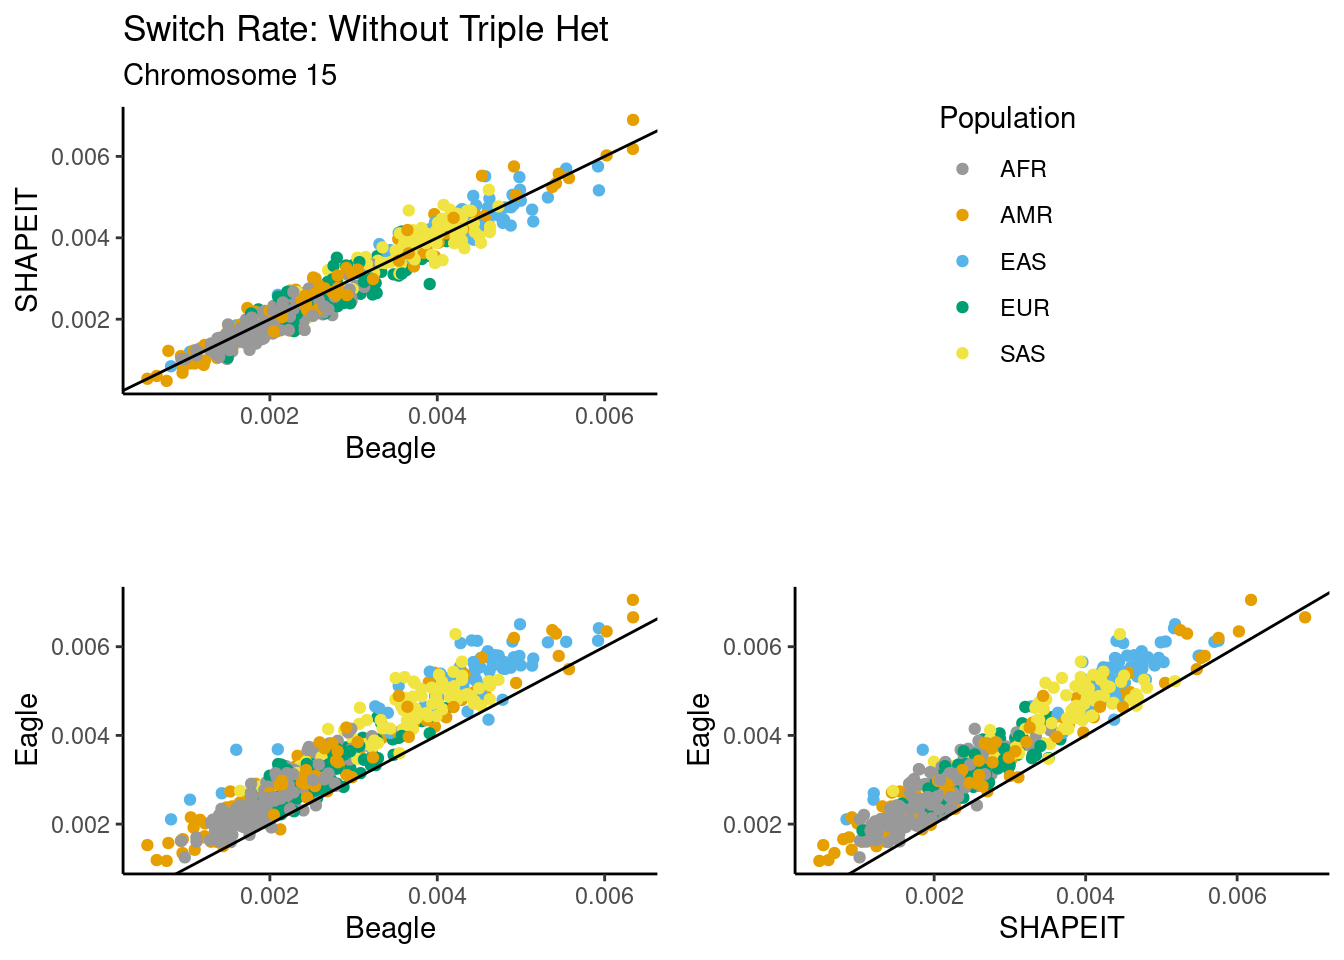
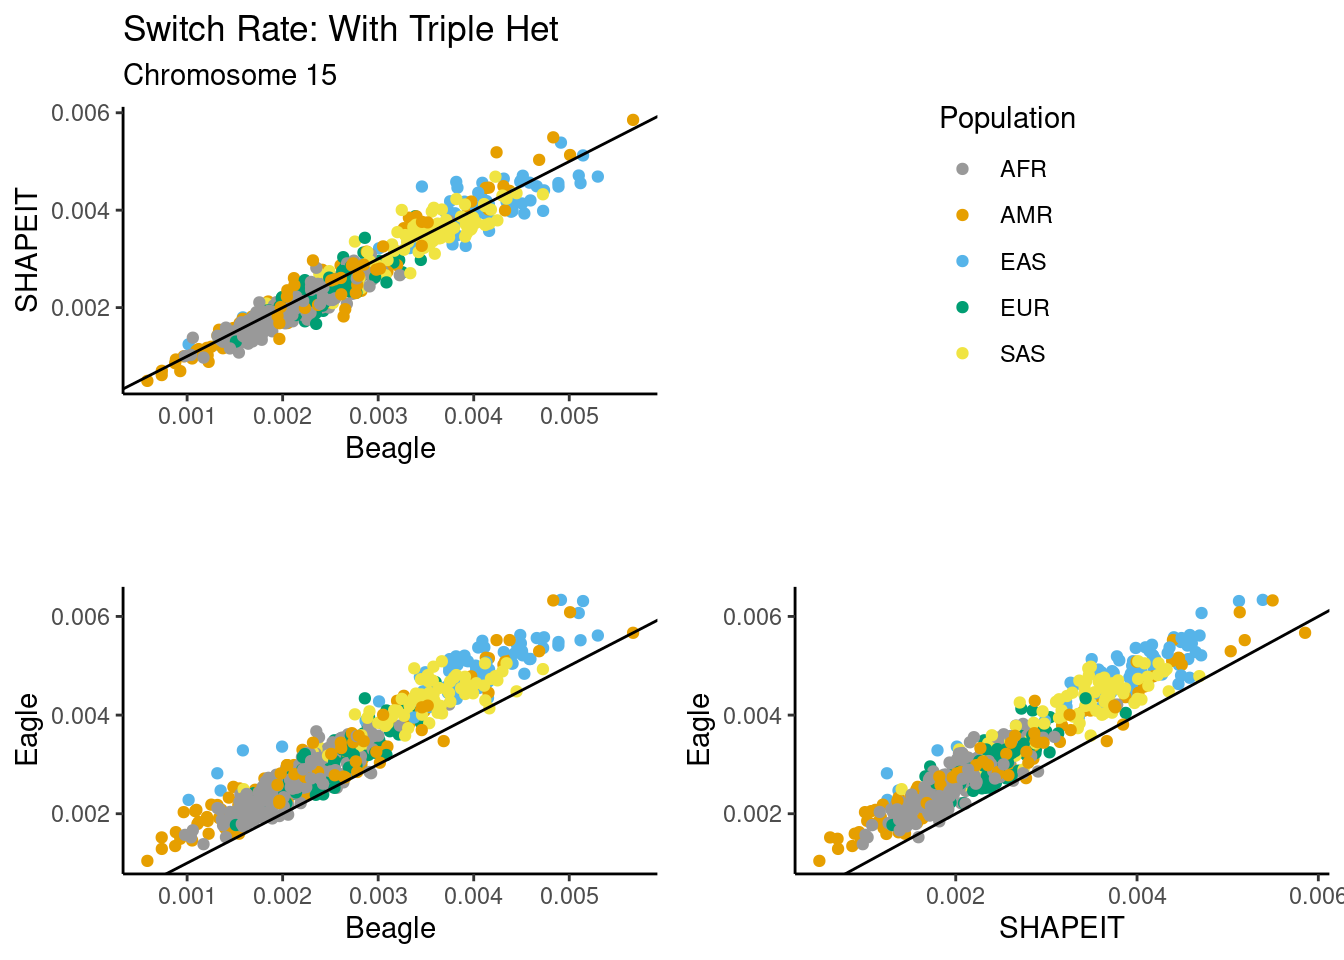
Build site.

diff --git a/docs/trio_no_th.html b/docs/trio_no_th.html
@@ -390,7 +390,7 @@ class="glyphicon glyphicon-ok text-success" aria-hidden="true"></span>
 <div class="tab-content">
 <div id="summary" class="tab-pane fade in active">
 <p>
-<strong>Last updated:</strong> 2024-06-17
+<strong>Last updated:</strong> 2024-06-18
 </p>
 <p>
 <strong>Checks:</strong> <span
@@ -521,15 +521,15 @@ project makes it easier to run your code on other machines.</p>
 <div class="panel panel-default">
 <div class="panel-heading">
 <p class="panel-title">
-<a data-toggle="collapse" data-parent="#workflowr-checks" href="#strongRepositoryversionstrongahrefhttpsgithubcomtheandybphasingcleantree34541293cab7c83b4ea9c50ba19a659988f8b7b1targetblank3454129a">
+<a data-toggle="collapse" data-parent="#workflowr-checks" href="#strongRepositoryversionstrongahrefhttpsgithubcomtheandybphasingcleantreeeb6c61aeceef2817ea338f1c8e31af32bf280e0etargetblankeb6c61aa">
 <span class="glyphicon glyphicon-ok text-success"
 aria-hidden="true"></span> <strong>Repository version:</strong>
-<a href="https://github.com/theandyb/phasing_clean/tree/34541293cab7c83b4ea9c50ba19a659988f8b7b1" target="_blank">3454129</a>
+<a href="https://github.com/theandyb/phasing_clean/tree/eb6c61aeceef2817ea338f1c8e31af32bf280e0e" target="_blank">eb6c61a</a>
 </a>
 </p>
 </div>
 <div
[2 lines of base64/hex data omitted]
 class="panel-collapse collapse">
 <div class="panel-body">
 <p>
@@ -539,7 +539,7 @@ reproducibility.
 </p>
 <p>
 The results in this page were generated with repository version
-<a href="https://github.com/theandyb/phasing_clean/tree/34541293cab7c83b4ea9c50ba19a659988f8b7b1" target="_blank">3454129</a>.
+<a href="https://github.com/theandyb/phasing_clean/tree/eb6c61aeceef2817ea338f1c8e31af32bf280e0e" target="_blank">eb6c61a</a>.
 See the <em>Past versions</em> tab to see a history of the changes made
 to the R Markdown and HTML files.
 </p>
@@ -622,6 +622,10 @@ Ignored files:
     Ignored:    output/trio_phase_8/
     Ignored:    scratch/
 
+Untracked files:
+    Untracked:  analysis/recombination_rate.Rmd
+    Untracked:  code/batch_compare_noTH.sh
+
 Unstaged changes:
     Modified:   README.md
     Modified:   _config.yaml
@@ -631,6 +635,7 @@ Unstaged changes:
     Modified:   code/batch_annotate_trio_switch.sh
     Modified:   code/batch_compare_trio.sh
     Modified:   code/batch_phase_trio_noTH.sh
+    Modified:   code/common_functions.R
     Modified:   code/error_rates_per_bin.R
     Modified:   code/maf_categories_trio.R
     Modified:   code/trio_phase_results.R
@@ -679,6 +684,40 @@ Message
 </tr>
 </thead>
 <tbody>
+<tr>
+<td>
+Rmd
+</td>
+<td>
+<a href="https://github.com/theandyb/phasing_clean/blob/eb6c61aeceef2817ea338f1c8e31af32bf280e0e/analysis/trio_no_th.Rmd" target="_blank">eb6c61a</a>
+</td>
+<td>
+Andy Beck
+</td>
+<td>
+2024-06-18
+</td>
+<td>
+wflow_publish("analysis/trio_no_th.Rmd")
+</td>
+</tr>
+<tr>
+<td>
+html
+</td>
+<td>
+<a href="https://rawcdn.githack.com/theandyb/phasing_clean/01938f726e043eccdea1433aaced1a633caa9ef1/docs/trio_no_th.html" target="_blank">01938f7</a>
+</td>
+<td>
+Andy Beck
+</td>
+<td>
+2024-06-17
+</td>
+<td>
+Build site.
+</td>
+</tr>
 <tr>
 <td>
 Rmd
@@ -1055,11 +1094,25 @@ df_subj_unrel &lt;- df_subj %&gt;%
 <h2>Chromosome 15</h2>
 <pre class="r"><code>df_switch_th &lt;- read_csv(&quot;output/trio_phase_15/switch_errors/summary.csv&quot;, show_col_types = FALSE) # with triple hets
 df_switch &lt;- read_csv(&quot;output/trio_phase_15/no_th/switch_errors/summary.csv&quot;, show_col_types = FALSE) # without th</code></pre>
-<p>As a reminder, here are what the error distribution patterns looked
-like with the triple heterozygous sites included:</p>
-<pre class="r"><code>cross_meth_plot(df_switch_th, &quot;Switch Rate: With Triple Het&quot;, plot_switch_rate, &quot;SUPER&quot;, 15)</code></pre>
-<pre><code>Warning in get_plot_component(plot, &quot;guide-box&quot;): Multiple components found;
-returning the first one. To return all, use `return_all = TRUE`.</code></pre>
+<p>For a sanity check, let’s plot the number of heterozygous positions
+per proband by data set (there should uniformly be more in the dataset
+which includes triple heterozygous positions):</p>
+<pre class="r"><code>df_switch_th %&gt;%
+  rename(n_het_th = n_hets) %&gt;%
+  select(pair_id, SUPER, n_het_th) %&gt;%
+  inner_join({
+    df_switch %&gt;%
+      select(pair_id, n_hets)
+  }, by = &quot;pair_id&quot;) %&gt;%
+  ggplot(aes(x = n_hets, y = n_het_th, colour = SUPER)) +
+  geom_point() +
+  theme_classic() +
+  ggtitle(&quot;Heterozygous Positions&quot;) +
+  xlab(&quot;Without Triple Hets&quot;) +
+  ylab(&quot;With Triple Hets&quot;) +
+  scale_color_manual(values = cbPalette) +
+  labs(colour = &quot;Population&quot;) +
+  geom_abline(slope = 1, intercept = 0)</code></pre>
 <p><img src="figure/trio_no_th.Rmd/unnamed-chunk-4-1.png" width="672" style="display: block; margin: auto;" /></p>
 <p>
 <button type="button" class="btn btn-default btn-xs btn-workflowr btn-workflowr-fig" data-toggle="collapse" data-target="#fig-unnamed-chunk-4-1">
@@ -1098,9 +1151,9 @@ Andy Beck
 </table>
 </div>
 </div>
-<p>For the same cross-method comparison, we observe the following
-figure:</p>
-<pre class="r"><code>cross_meth_plot(df_switch, &quot;Switch Rate: Without Triple Het&quot;, plot_switch_rate, &quot;SUPER&quot;, 15)</code></pre>
+<p>As a reminder, here are what the error distribution patterns looked
+like with the triple heterozygous sites included:</p>
+<pre class="r"><code>cross_meth_plot(df_switch_th, &quot;Switch Rate: With Triple Het&quot;, plot_switch_rate, &quot;SUPER&quot;, 15)</code></pre>
 <pre><code>Warning in get_plot_component(plot, &quot;guide-box&quot;): Multiple components found;
 returning the first one. To return all, use `return_all = TRUE`.</code></pre>
 <p><img src="figure/trio_no_th.Rmd/unnamed-chunk-5-1.png" width="672" style="display: block; margin: auto;" /></p>
@@ -1141,10 +1194,9 @@ Andy Beck
 </table>
 </div>
 </div>
-<p>Visually, we observe the same general ranking of methods with respect
-to the switch rate between the two figures. For flips, we observe the
-following:</p>
-<pre class="r"><code>cross_meth_plot(df_switch_th, &quot;Flip Rate: With Triple Het&quot;, plot_flip_rate, &quot;SUPER&quot;, 15)</code></pre>
+<p>For the same cross-method comparison, we observe the following
+figure:</p>
+<pre class="r"><code>cross_meth_plot(df_switch, &quot;Switch Rate: Without Triple Het&quot;, plot_switch_rate, &quot;SUPER&quot;, 15)</code></pre>
 <pre><code>Warning in get_plot_component(plot, &quot;guide-box&quot;): Multiple components found;
 returning the first one. To return all, use `return_all = TRUE`.</code></pre>
 <p><img src="figure/trio_no_th.Rmd/unnamed-chunk-6-1.png" width="672" style="display: block; margin: auto;" /></p>
@@ -1185,7 +1237,10 @@ Andy Beck
 </table>
 </div>
 </div>
-<pre class="r"><code>cross_meth_plot(df_switch, &quot;Flip Rate: Without Triple Het&quot;, plot_flip_rate, &quot;SUPER&quot;, 15)</code></pre>
+<p>Visually, we observe the same general ranking of methods with respect
+to the switch rate between the two figures. For flips, we observe the
+following:</p>
+<pre class="r"><code>cross_meth_plot(df_switch_th, &quot;Flip Rate: With Triple Het&quot;, plot_flip_rate, &quot;SUPER&quot;, 15)</code></pre>
 <pre><code>Warning in get_plot_component(plot, &quot;guide-box&quot;): Multiple components found;
 returning the first one. To return all, use `return_all = TRUE`.</code></pre>
 <p><img src="figure/trio_no_th.Rmd/unnamed-chunk-7-1.png" width="672" style="display: block; margin: auto;" /></p>
@@ -1226,13 +1281,10 @@ Andy Beck
 </table>
 </div>
 </div>
-<p>Again, we observe the same qualitative ranking of the methods:
-SHAPEIT generally introduces more flips than the other two methods,
-while more most probands we observe more flips in Beagle than in Eagle.
-Now, if we plot the error rates for each method acrss the datasets, we
-observe:</p>
-<pre class="r"><code>cross_df_plots(df_switch, df_switch_th, &quot;other&quot;)</code></pre>
-<p><img src="figure/trio_no_th.Rmd/unnamed-chunk-8-1.png" width="1152" style="display: block; margin: auto;" /></p>
+<pre class="r"><code>cross_meth_plot(df_switch, &quot;Flip Rate: Without Triple Het&quot;, plot_flip_rate, &quot;SUPER&quot;, 15)</code></pre>
+<pre><code>Warning in get_plot_component(plot, &quot;guide-box&quot;): Multiple components found;
+returning the first one. To return all, use `return_all = TRUE`.</code></pre>
+<p><img src="figure/trio_no_th.Rmd/unnamed-chunk-8-1.png" width="672" style="display: block; margin: auto;" /></p>
 <p>
 <button type="button" class="btn btn-default btn-xs btn-workflowr btn-workflowr-fig" data-toggle="collapse" data-target="#fig-unnamed-chunk-8-1">
 Past versions of unnamed-chunk-8-1.png
@@ -1255,6 +1307,17 @@ Date
 </tr>
 </thead>
 <tbody>
+<tr>
+<td>
+<a href="https://github.com/theandyb/phasing_clean/blob/01938f726e043eccdea1433aaced1a633caa9ef1/docs/figure/trio_no_th.Rmd/unnamed-chunk-8-1.png" target="_blank">01938f7</a>
+</td>
+<td>
+Andy Beck
+</td>
+<td>
+2024-06-17
+</td>
+</tr>
 <tr>
 <td>
 <a href="https://github.com/theandyb/phasing_clean/blob/4b6c9ddc379943f4df76e0f4dd3a2e33cb41d4f4/docs/figure/trio_no_th.Rmd/unnamed-chunk-8-1.png" target="_blank">4b6c9dd</a>
@@ -1303,7 +1366,12 @@ Andy Beck
 </table>
 </div>
 </div>
-<pre class="r"><code>cross_df_plots(df_switch, df_switch_th, &quot;flip&quot;)</code></pre>
+<p>Again, we observe the same qualitative ranking of the methods:
+SHAPEIT generally introduces more flips than the other two methods,
+while more most probands we observe more flips in Beagle than in Eagle.
+Now, if we plot the error rates for each method across the data sets, we
+observe:</p>
+<pre class="r"><code>cross_df_plots(df_switch, df_switch_th, &quot;other&quot;)</code></pre>
 <p><img src="figure/trio_no_th.Rmd/unnamed-chunk-9-1.png" width="1152" style="display: block; margin: auto;" /></p>
 <p>
 <button type="button" class="btn btn-default btn-xs btn-workflowr btn-workflowr-fig" data-toggle="collapse" data-target="#fig-unnamed-chunk-9-1">
@@ -1329,6 +1397,17 @@ Date
 <tbody>
 <tr>
 <td>
+<a href="https://github.com/theandyb/phasing_clean/blob/01938f726e043eccdea1433aaced1a633caa9ef1/docs/figure/trio_no_th.Rmd/unnamed-chunk-9-1.png" target="_blank">01938f7</a>
+</td>
+<td>
+Andy Beck
+</td>
+<td>
+2024-06-17
+</td>
+</tr>
+<tr>
+<td>
 <a href="https://github.com/theandyb/phasing_clean/blob/4b6c9ddc379943f4df76e0f4dd3a2e33cb41d4f4/docs/figure/trio_no_th.Rmd/unnamed-chunk-9-1.png" target="_blank">4b6c9dd</a>
 </td>
 <td>
@@ -1342,6 +1421,65 @@ Andy Beck
 </table>
 </div>
 </div>
+<pre class="r"><code>cross_df_plots(df_switch, df_switch_th, &quot;flip&quot;)</code></pre>
+<p><img src="figure/trio_no_th.Rmd/unnamed-chunk-10-1.png" width="1152" style="display: block; margin: auto;" /></p>
+</div>
+<div id="chromosome-22" class="section level2">
+<h2>Chromosome 22</h2>
+<pre class="r"><code>df_switch_th &lt;- read_csv(&quot;output/trio_phase_22/switch_errors/summary.csv&quot;, show_col_types = FALSE) # with triple hets
+df_switch &lt;- read_csv(&quot;output/trio_phase_22/no_th/switch_errors/summary.csv&quot;, show_col_types = FALSE) # without th</code></pre>
+<p>For a sanity check, let’s plot the number of heterozygous positions
+per proband by data set (there should uniformly be more in the dataset
+which includes triple heterozygous positions):</p>
+<pre class="r"><code>df_switch_th %&gt;%
+  rename(n_het_th = n_hets) %&gt;%
+  select(pair_id, SUPER, n_het_th) %&gt;%
+  inner_join({
+    df_switch %&gt;%
+      select(pair_id, n_hets)
+  }, by = &quot;pair_id&quot;) %&gt;%
+  ggplot(aes(x = n_hets, y = n_het_th, colour = SUPER)) +
+  geom_point() +
+  theme_classic() +
+  ggtitle(&quot;Heterozygous Positions&quot;) +
+  xlab(&quot;Without Triple Hets&quot;) +
+  ylab(&quot;With Triple Hets&quot;) +
+  scale_color_manual(values = cbPalette) +
+  labs(colour = &quot;Population&quot;) +
+  geom_abline(slope = 1, intercept = 0)</code></pre>
+<p><img src="figure/trio_no_th.Rmd/unnamed-chunk-12-1.png" width="672" style="display: block; margin: auto;" /></p>
+<p>As a reminder, here are what the error distribution patterns looked
+like with the triple heterozygous sites included:</p>
+<pre class="r"><code>cross_meth_plot(df_switch_th, &quot;Switch Rate: With Triple Het&quot;, plot_switch_rate, &quot;SUPER&quot;, 22)</code></pre>
+<pre><code>Warning in get_plot_component(plot, &quot;guide-box&quot;): Multiple components found;
+returning the first one. To return all, use `return_all = TRUE`.</code></pre>
+<p><img src="figure/trio_no_th.Rmd/unnamed-chunk-13-1.png" width="672" style="display: block; margin: auto;" /></p>
+<p>For the same cross-method comparison, we observe the following
+figure:</p>
+<pre class="r"><code>cross_meth_plot(df_switch, &quot;Switch Rate: Without Triple Het&quot;, plot_switch_rate, &quot;SUPER&quot;, 22)</code></pre>
+<pre><code>Warning in get_plot_component(plot, &quot;guide-box&quot;): Multiple components found;
+returning the first one. To return all, use `return_all = TRUE`.</code></pre>
+<p><img src="figure/trio_no_th.Rmd/unnamed-chunk-14-1.png" width="672" style="display: block; margin: auto;" /></p>
+<p>Visually, we observe the same general ranking of methods with respect
+to the switch rate between the two figures. For flips, we observe the
+following:</p>
+<pre class="r"><code>cross_meth_plot(df_switch_th, &quot;Flip Rate: With Triple Het&quot;, plot_flip_rate, &quot;SUPER&quot;, 22)</code></pre>
+<pre><code>Warning in get_plot_component(plot, &quot;guide-box&quot;): Multiple components found;
+returning the first one. To return all, use `return_all = TRUE`.</code></pre>
+<p><img src="figure/trio_no_th.Rmd/unnamed-chunk-15-1.png" width="672" style="display: block; margin: auto;" /></p>
+<pre class="r"><code>cross_meth_plot(df_switch, &quot;Flip Rate: Without Triple Het&quot;, plot_flip_rate, &quot;SUPER&quot;, 22)</code></pre>
+<pre><code>Warning in get_plot_component(plot, &quot;guide-box&quot;): Multiple components found;
+returning the first one. To return all, use `return_all = TRUE`.</code></pre>
+<p><img src="figure/trio_no_th.Rmd/unnamed-chunk-16-1.png" width="672" style="display: block; margin: auto;" /></p>
+<p>Again, we observe the same qualitative ranking of the methods:
+SHAPEIT generally introduces more flips than the other two methods,
+while more most probands we observe more flips in Beagle than in Eagle.
+Now, if we plot the error rates for each method across the data sets, we
+observe:</p>
+<pre class="r"><code>cross_df_plots(df_switch, df_switch_th, &quot;other&quot;)</code></pre>
+<p><img src="figure/trio_no_th.Rmd/unnamed-chunk-17-1.png" width="1152" style="display: block; margin: auto;" /></p>
+<pre class="r"><code>cross_df_plots(df_switch, df_switch_th, &quot;flip&quot;)</code></pre>
+<p><img src="figure/trio_no_th.Rmd/unnamed-chunk-18-1.png" width="1152" style="display: block; margin: auto;" /></p>
 <br>
 <p>
 <button type="button" class="btn btn-default btn-workflowr btn-workflowr-sessioninfo" data-toggle="collapse" data-target="#workflowr-sessioninfo" style="display: block;">
